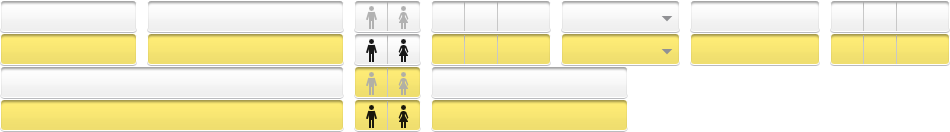
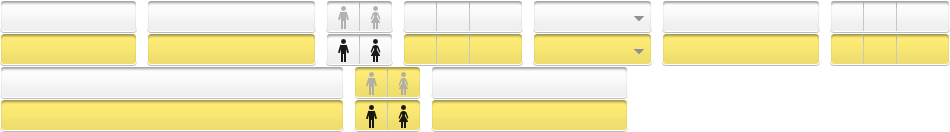
PayPal

diff --git a/frontend/www/themes/v2/css/style.css b/frontend/www/themes/v2/css/style.css
@@ -2427,10 +2427,10 @@ input.hotel-input {
 }
 
 .infoPassengers .tdLastname {
-	width: 206px;
+	width: 175px;
 }
 .infoPassengers .tdLastname input[type='text'] {
-	width: 187px;
+	width: 169px;
 	padding-left: 5px;
 	padding-right: 5px;
 	background-position: -147px 0px;
@@ -2441,14 +2441,14 @@ input.hotel-input {
 }
 
 .infoPassengers .tdDocumentNumber {
-	width: 140px;
+	width: 165px;
 }
-.infoPassengers .tdDocumentNumber input[type='text'] {
-	width: 120px;
-	padding-left: 5px;
-	padding-right: 5px;
-	background-position: -690px 0px;
-	text-transform: uppercase;
+.infoPassengers .tdDocumentNumber input[type="text"] {
+    background-position: -662px 0;
+    padding-left: 5px;
+    padding-right: 5px;
+    text-transform: uppercase;
+    width: 148px;
 }
 .infoPassengers .tdDocumentNumber input[type='text']:focus {
 	background-position: -690px -33px;
@@ -2462,30 +2462,40 @@ input.hotel-input {
 .infoPassengers .dd {
 	width: 34px;
 	text-align: center;
-	background-position: -431px 0px !important;
+	background-position: -403px 0px !important;
 	float: left;
 	font-size: 12px;
 }
 .infoPassengers .dd:focus {
-	background-position: -431px -33px !important;
+	background-position: -403px -33px !important;
+}
+@media screen and (-webkit-min-device-pixel-ratio:0) {
+	body:first-of-type .infoPassengers .dd {
+		width: 32px;
+	}
 }
 .infoPassengers .mm {
 	width: 33px;
 	text-align: center;
-	background-position: -465px 0px !important;
+	background-position: -437px 0px !important;
 	float: left;
 }
+@media screen and (-webkit-min-device-pixel-ratio:0) {
+	body:first-of-type .infoPassengers .mm {
+		width: 31px;
+	}
+}
 .infoPassengers .mm:focus {
-	background-position: -465px -33px !important;
+	background-position: -437px -33px !important;
 }
 .infoPassengers .yy {
-	background-position: -498px 0 !important;
+	background-position: -470px 0 !important;
     float: left;
     text-align: center;
     width: 53px;
 }
 .infoPassengers .yy:focus {
-	background-position: -498px -33px !important;
+	background-position: -470px -33px !important;
 }
 .infoPassengers .tdNationality {
 	width: 129px;
@@ -2494,11 +2504,11 @@ input.hotel-input {
 	width: 109px;
 	padding-left: 5px;
 	padding-right: 5px;
-	background-position: -561px 0px;
+	background-position: -533px 0px;
 	text-transform: uppercase;
 }
 .infoPassengers .tdNationality input[type='text']:focus {
-	background-position: -561px -33px;
+	background-position: -533px -33px;
 }
 .tdSex {
 	width: 77px;
@@ -2506,7 +2516,7 @@ input.hotel-input {
 .tdSex .male {
 	width: 34px;
 	height: 33px;
-	background: url("../images/bg-input.png") no-repeat -354px 0px transparent; 
+	background: url("../images/bg-input.png") no-repeat -326px 0px transparent; 
 	cursor: pointer;
 	float: left;
 }
@@ -2514,7 +2524,7 @@ input.hotel-input {
 	background-position: -354px -66px;
 }
 .tdSex .male.active {
-	background-position: -354px -33px;
+	background-position: -326px -33px;
 }
 .tdSex .male.active:hover {
 	background-position: -354px -99px;
@@ -2522,7 +2532,7 @@ input.hotel-input {
 .tdSex .female {
 	width: 34px;
 	height: 33px;
-	background: url("../images/bg-input.png") no-repeat -388px 0px transparent; 
+	background: url("../images/bg-input.png") no-repeat -360px 0px transparent; 
 	cursor: pointer;
 	float: left;
 }
@@ -2530,7 +2540,7 @@ input.hotel-input {
 	background-position: -388px -66px;
 }
 .tdSex .female.active {
-	background-position: -388px -33px;
+	background-position: -360px -33px;
 }
 .tdSex .female.active:hover {
 	background-position: -388px -99px;

diff --git a/frontend/www/themes/v2/views/buy/makeBooking.php b/frontend/www/themes/v2/views/buy/makeBooking.php
@@ -122,7 +122,7 @@
 								Гражданство
 							</td>
 							<td class="tdDocumentNumber">
-								Номер документа
+								Серия и № документа
 							</td>
 							<td class="tdDuration">
 								Срок действия
@@ -330,7 +330,7 @@
 								Гражданство
 							</td>
 							<td class="tdDocumentNumber">
-								Номер документа
+								Серия и № документа
 							</td>
 							<td class="tdDuration">
 								Срок действия
